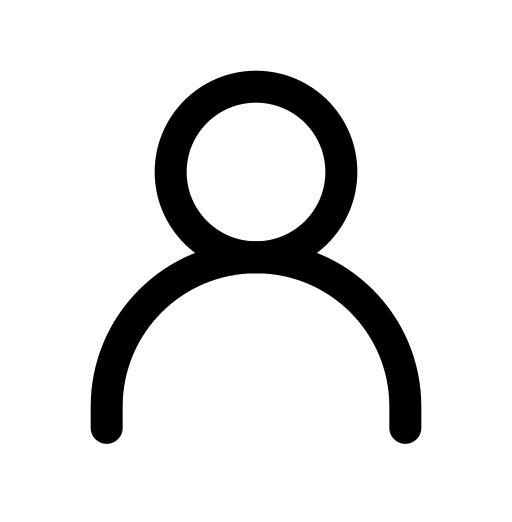
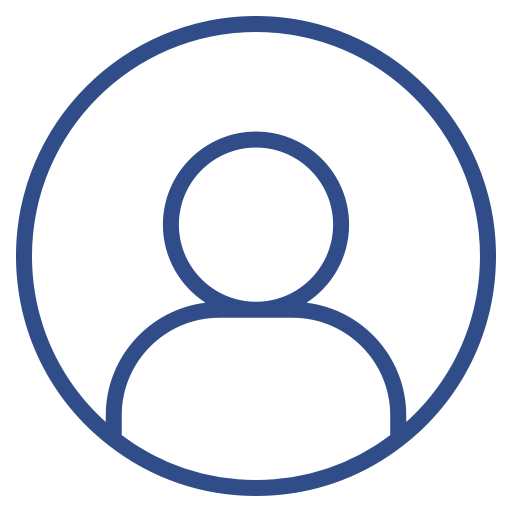
sugerencias del equipo MUK

Changed region(s): [[0.0312, 0.0312, 0.9688, 0.9688]]

diff --git a/demo/src/main/resources/templates/rooms/room-detail.html b/demo/src/main/resources/templates/rooms/room-detail.html
@@ -3,7 +3,9 @@
   <head>
     <meta charset="UTF-8" />
     <meta name="viewport" content="width=device-width, initial-scale=1.0" />
-    <title th:text="${room.nombre} + ' | Mira Mar Caribbean Luxury'">Detalle de Habitación</title>
+    <title th:text="${room.nombre} + ' | Mira Mar Caribbean Luxury'">
+      Detalle de Habitación
+    </title>
     <link rel="icon" type="image/png" href="/images/Mira Mar logo Blanco.png" />
 
     <link rel="preconnect" href="https://fonts.googleapis.com" />
@@ -22,14 +24,21 @@
   <body class="detail-page">
     <div th:replace="fragments/navbar :: navbar"></div>
 
-    <header class="detail-hero" th:style="'--hero-image: url(' + ${room.urlImagen} + ')'">
+    <header
+      class="detail-hero"
+      th:style="'--hero-image: url(' + ${room.urlImagen} + ')'"
+    >
       <div class="container">
         <div class="detail-hero__content">
-          <div class="detail-hero__badge"
-            th:text="${room.tipoHabitacion != null ? room.tipoHabitacion.nombre : 'Habitación'}">
+          <div
+            class="detail-hero__badge"
+            th:text="${room.tipoHabitacion != null ? room.tipoHabitacion.nombre : 'Habitación'}"
+          >
             Premium Suite
           </div>
-          <h1 class="detail-hero__title" th:text="${room.nombre}">Nombre de Habitación</h1>
+          <h1 class="detail-hero__title" th:text="${room.nombre}">
+            Nombre de Habitación
+          </h1>
           <p class="detail-hero__location">
             <i class="ph ph-map-pin"></i>
             <span>Playa de las Estrellas, Costa Esmeralda</span>
@@ -44,25 +53,46 @@
           <div>
             <section class="detail-gallery" aria-label="Galería">
               <div class="detail-gallery__strip">
-                <button class="detail-gallery__thumb" type="button" aria-label="Foto 1">
+                <button
+                  class="detail-gallery__thumb"
+                  type="button"
+                  aria-label="Foto 1"
+                >
                   <img
                     th:src="${room.urlImagen}"
                     th:alt="${room.nombre}"
-                    onerror="this.src='https://via.placeholder.com/240x160/cdc392/ffffff?text=Foto'"
+                    onerror="
+                      this.src =
+                        'https://via.placeholder.com/240x160/cdc392/ffffff?text=Foto'
+                    "
                   />
                 </button>
-                <button class="detail-gallery__thumb" type="button" aria-label="Foto 2">
+                <button
+                  class="detail-gallery__thumb"
+                  type="button"
+                  aria-label="Foto 2"
+                >
                   <img
                     th:src="${room.urlImagen}"
                     th:alt="${room.nombre}"
-                    onerror="this.src='https://via.placeholder.com/240x160/cdc392/ffffff?text=Foto'"
+                    onerror="
+                      this.src =
+                        'https://via.placeholder.com/240x160/cdc392/ffffff?text=Foto'
+                    "
                   />
                 </button>
-                <button class="detail-gallery__thumb" type="button" aria-label="Foto 3">
+                <button
+                  class="detail-gallery__thumb"
+                  type="button"
+                  aria-label="Foto 3"
+                >
                   <img
                     th:src="${room.urlImagen}"
                     th:alt="${room.nombre}"
-                    onerror="this.src='https://via.placeholder.com/240x160/cdc392/ffffff?text=Foto'"
+                    onerror="
+                      this.src =
+                        'https://via.placeholder.com/240x160/cdc392/ffffff?text=Foto'
+                    "
                   />
                 </button>
                 <div class="detail-gallery__more">+12 fotos</div>
@@ -71,26 +101,45 @@
 
             <section class="detail-section">
               <h2 class="detail-section__title">Descripción</h2>
-              <p th:text="${room.descripcion}">Descripción completa de la habitación.</p>
+              <p th:text="${room.descripcion}">
+                Descripción completa de la habitación.
+              </p>
             </section>
 
             <section class="detail-section" aria-label="Amenidades">
               <h2 class="detail-section__title">Amenidades</h2>
               <div class="detail-amenities">
-                <span class="detail-chip"><i class="ph ph-wifi-high"></i> Wi-Fi Alta Velocidad</span>
-                <span class="detail-chip"><i class="ph ph-drop"></i> Jacuzzi Privado</span>
-                <span class="detail-chip"><i class="ph ph-sun"></i> Terraza Privada</span>
-                <span class="detail-chip"><i class="ph ph-snowflake"></i> Climatización VIP</span>
-                <span class="detail-chip"><i class="ph ph-wine"></i> Minibar Premium</span>
-                <span class="detail-chip"><i class="ph ph-bell"></i> Room Service 24h</span>
+                <span class="detail-chip"
+                  ><i class="ph ph-wifi-high"></i> Wi-Fi Alta Velocidad</span
+                >
+                <span class="detail-chip"
+                  ><i class="ph ph-drop"></i> Jacuzzi Privado</span
+                >
+                <span class="detail-chip"
+                  ><i class="ph ph-sun"></i> Terraza Privada</span
+                >
+                <span class="detail-chip"
+                  ><i class="ph ph-snowflake"></i> Climatización VIP</span
+                >
+                <span class="detail-chip"
+                  ><i class="ph ph-wine"></i> Minibar Premium</span
+                >
+                <span class="detail-chip"
+                  ><i class="ph ph-bell"></i> Room Service 24h</span
+                >
               </div>
             </section>
 
             <section class="detail-section">
               <h2 class="detail-section__title">Características</h2>
               <div class="card__meta">
-                <span th:text="${room.capacidad} + ' huéspedes'">0 huéspedes</span>
-                <span th:text="${room.tipoHabitacion != null ? room.tipoHabitacion.nombre : 'Habitación'}">Tipo</span>
+                <span th:text="${room.capacidad} + ' huéspedes'"
+                  >0 huéspedes</span
+                >
+                <span
+                  th:text="${room.tipoHabitacion != null ? room.tipoHabitacion.nombre : 'Habitación'}"
+                  >Tipo</span
+                >
               </div>
             </section>
 
@@ -111,7 +160,11 @@
             <div class="detail-aside__panel">
               <div class="detail-booking__top">
                 <div class="detail-booking__price">
-                  <span class="detail-booking__amount" th:text="'$' + ${room.precioNoche}">$0</span>
+                  <span
+                    class="detail-booking__amount"
+                    th:text="'$' + ${room.precioNoche}"
+                    >$0</span
+                  >
                   <span class="detail-booking__suffix">/noche</span>
                 </div>
                 <div class="detail-booking__rating">
@@ -144,16 +197,26 @@
                 </select>
               </div>
 
-              <button class="btn btn--primary detail-booking__cta" type="button">Reservar Ahora</button>
-              <div class="detail-booking__note">No se realizará ningún cargo todavía</div>
+              <button
+                class="btn btn--primary detail-booking__cta"
+                type="button"
+                onclick="window.location.href = '/login-page'"
+              >
+                Reservar Ahora
+              </button>
+              <div class="detail-booking__note">
+                No se realizará ningún cargo todavía
+              </div>
 
               <div class="detail-booking__summary">
                 <div class="detail-booking__line">
-                  <span th:text="'$' + ${room.precioNoche} + ' x 3 noches'">$0 x 3 noches</span>
+                  <span th:text="'$' + ${room.precioNoche} + ' x 3 noches'"
+                    >$0 x 3 noches</span
+                  >
                   <span>$0</span>
                 </div>
                 <div class="detail-booking__line">
-                  <span>Tasas &amp; impuestos</span>
+                  <span>Tasas &amp; impuestos</span> 
                   <span>$45</span>
                 </div>
                 <div class="detail-booking__total">
@@ -172,4 +235,3 @@
     <script src="/js/script.js"></script>
   </body>
 </html>
-

diff --git a/demo/src/main/resources/static/css/Usuarios/usuario-detail.css b/demo/src/main/resources/static/css/Usuarios/usuario-detail.css
@@ -27,7 +27,7 @@
   background-position: center;
   color: var(--white);
   padding: 180px 0 80px;
-  margin-bottom: 3.5rem;
+  margin-bottom: 0rem;
 }
 
 .detail-hero__grid {
@@ -74,7 +74,7 @@
 
 /* ---- Main ---- */
 .detail-main {
-  padding: 0 0 5rem;
+  padding: 2.5rem 0 5rem;
   background: #f0f2f7;
 }
 

diff --git a/demo/src/main/resources/static/css/styles.css b/demo/src/main/resources/static/css/styles.css
@@ -330,11 +330,10 @@ nav {
 }
 
 .profile-img {
-  width: 45px;
-  height: 45px;
-  border-radius: 50%;
+  width: 40px;
+  height: 40px;
   object-fit: cover;
-  border: 2px solid var(--white);
+  border: none;
   transition: border-color 0.3s ease;
 }
 
